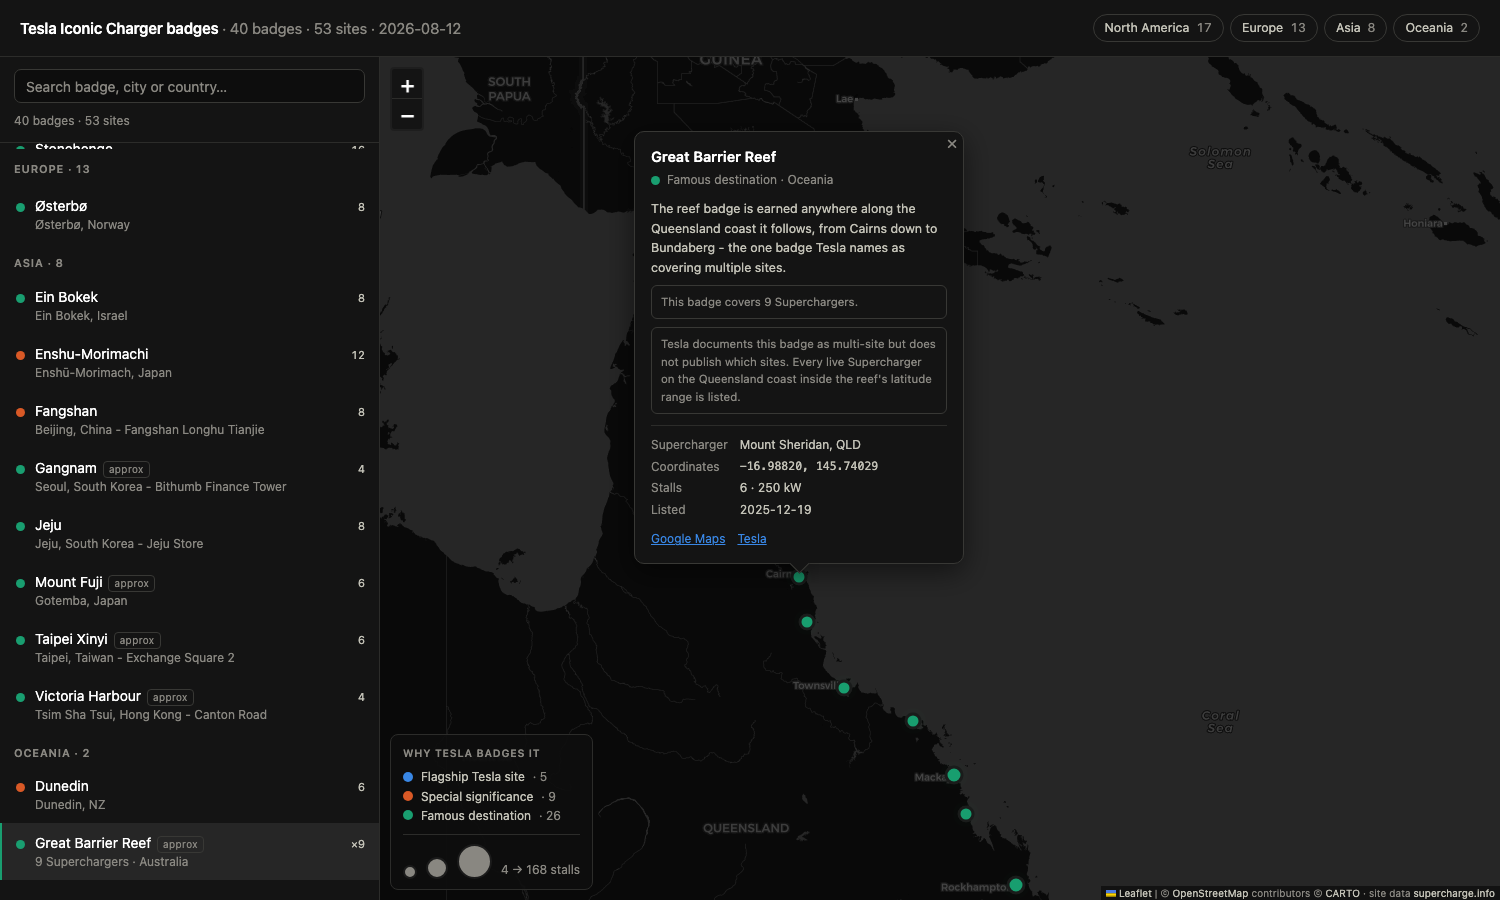
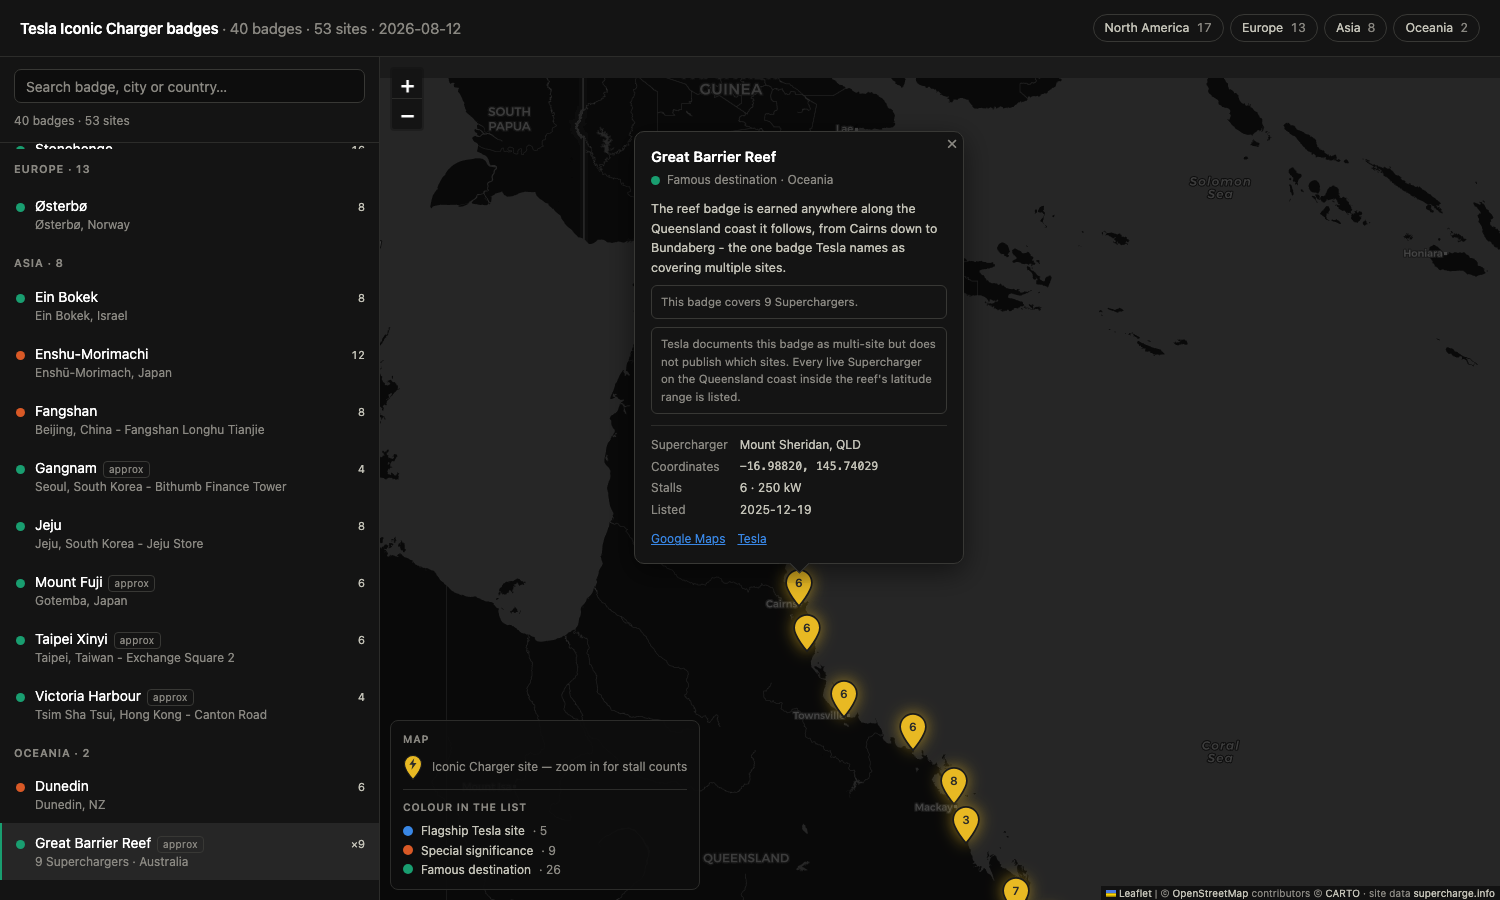
Style map markers as Tesla-gold Supercharger pins
Replace the coloured circle markers with pins modelled on Tesla's own
Supercharger marker: a gold teardrop with a dark lightning bolt, and the
stall count taking the bolt's place once zoomed in past level 6.

Colours are measured rather than chosen by eye. Gold #e8b923 sits at 9.35:1
over the basemap's water and 8.03:1 over its land; the #2c2c2a bolt at 7.59:1
against the gold. All are clear of the 3:1 floor for meaningful graphics.

Going to a single pin colour gives up hue as an encoding channel, so a badge's
reason now shows only in the sidebar dots and popups, and the legend says so.
Stall count survives the loss of size-encoding as a number on the pin, which is
more precise than an area the eye has to judge.

Switching from circleMarker to L.marker + divIcon also simplifies things:

- The invisible halo layer is gone. It existed only to give circle markers a
  >=24px hit target; the 26x34 icon box is its own target, halving the layer
  count per site.
- Marker z-order now follows latitude automatically, so pins overlap the way
  maps conventionally do.
- The pin tip marks the coordinate, where a circle's centre did.

Accessibility: Leaflet's alt option applies only to image icons, so a divIcon
would have shipped unnamed. Each pin carries role="img" and an SVG <title>
naming the badge, site and stall count, and stays keyboard focusable.

diff --git a/web/index.html b/web/index.html
@@ -18,10 +18,17 @@
     --hairline:       #2c2c2a;
     --rule:           #383835;
     /* categorical slots 1-3, validated all-pairs against --surface-1
-       (CVD ΔE 9.4, normal-vision ΔE 20.9, all >= 3:1 contrast) */
+       (CVD ΔE 9.4, normal-vision ΔE 20.9, all >= 3:1 contrast).
+       These now identify a badge's reason in the LIST only - the map is one colour. */
     --reason-flagship:     #3987e5;
     --reason-significance: #d95926;
     --reason-destination:  #199e70;
+    /* Map pin, styled after Tesla's own Supercharger marker.
+       Gold on the dark basemap: 9.35:1 over water, 8.03:1 over land.
+       Bolt on gold: 7.59:1. Swap --pin-gold to #d4af37 for antique gold. */
+    --pin-gold: #e8b923;
+    --pin-bolt: #2c2c2a;
+    --pin-edge: #1b1b1b;
   }
 
   * { box-sizing: border-box; }
@@ -129,10 +136,39 @@
   .legend .row { display: flex; align-items: center; gap: 8px; }
   .legend .dot { width: 10px; height: 10px; border-radius: 50%; flex: none; }
   .legend .sizes {
-    display: flex; align-items: flex-end; gap: 9px;
+    display: flex; align-items: center; gap: 9px;
     margin-top: 9px; padding-top: 9px; border-top: 1px solid var(--hairline);
   }
-  .legend .sz { border: 2px solid var(--surface-1); border-radius: 50%; background: var(--text-muted); flex: none; }
+  .legend hr { margin: 9px 0; border: 0; border-top: 1px solid var(--hairline); }
+
+  /* ------------------------------------------------------- Supercharger pin */
+  /* Tip of the pin sits on the coordinate, so iconAnchor is bottom-centre. */
+  .pin { background: none; border: 0; }
+  .pin svg {
+    display: block;
+    overflow: visible;
+    transform-origin: 50% 100%;
+    transition: transform 90ms ease-out;
+  }
+  .pin .body { fill: var(--pin-gold); stroke: var(--pin-edge); stroke-width: 1.5; }
+  .pin .bolt { fill: var(--pin-bolt); }
+  .pin .count {
+    fill: var(--pin-bolt);
+    font: 600 10px/1 system-ui, -apple-system, "Segoe UI", sans-serif;
+    text-anchor: middle;
+    display: none;
+  }
+  /* Stall counts only once you are close enough for them not to be noise.
+     Scoped to marker icons - the legend's sample pin lives inside the same
+     container and must keep its bolt. */
+  .show-counts .leaflet-marker-icon.pin .bolt { display: none; }
+  .show-counts .leaflet-marker-icon.pin .count { display: block; }
+
+  .leaflet-marker-icon.pin:hover svg { transform: scale(1.12); }
+  .pin.is-selected svg {
+    transform: scale(1.15);
+    filter: drop-shadow(0 0 7px #e8b92399);
+  }
 
   .leaflet-tooltip.tip {
     padding: 5px 9px; border: 1px solid var(--rule); border-radius: 6px;
@@ -212,7 +248,6 @@
     significance: "Special significance",
     destination:  "Famous destination"
   };
-  var SURFACE = "#1b1b1b";
 
   var sitesOf = {};
   DATA.sites.forEach(function (s) {
@@ -234,7 +269,6 @@
     maxZoom: 20
   }).addTo(map);
 
-  function radius(stalls) { return 5 + Math.sqrt(stalls || 4) * 0.95; }
 
   function esc(s) {
     return String(s == null ? "" : s).replace(/[&<>"']/g, function (c) {
@@ -276,59 +310,78 @@
   }
 
   var layer = L.layerGroup().addTo(map);
-  var marks = {};   // badge name -> [{dot, halo, site}]
+  var marks = {};   // badge name -> [{marker, site, badge}]
+
+  // A Tesla-style Supercharger pin: gold teardrop, dark bolt, stall count in
+  // place of the bolt once zoomed in. Inline SVG in a divIcon keeps the page
+  // asset-free, and the 26x34 icon box is its own hit target - comfortably past
+  // the 24px minimum, so no separate halo layer is needed.
+  var PIN_W = 26, PIN_H = 34;
+
+  function pinIcon(stalls, label) {
+    // role="img" + <title> rather than the marker's alt option: Leaflet only
+    // applies alt to image icons, so a divIcon would otherwise be unnamed.
+    var svg =
+      '<svg width="' + PIN_W + '" height="' + PIN_H + '" viewBox="0 0 26 34" role="img">' +
+        "<title>" + esc(label) + "</title>" +
+        '<path class="body" d="M13 33.2C13 33.2 24.2 20.6 24.2 13A11.2 11.2 0 1 0 1.8 13' +
+          'C1.8 20.6 13 33.2 13 33.2Z"/>' +
+        '<path class="bolt" d="M14.6 5.6 8.2 14.1h4.1l-1.3 6.6 6.6-8.9h-4.2z"/>' +
+        '<text class="count" x="13" y="16.6">' + (stalls || "?") + "</text>" +
+      "</svg>";
+    return L.divIcon({
+      className: "pin",
+      html: svg,
+      iconSize: [PIN_W, PIN_H],
+      iconAnchor: [PIN_W / 2, PIN_H],   // the tip marks the coordinate
+      popupAnchor: [0, -PIN_H + 4],
+      tooltipAnchor: [0, -PIN_H + 6]
+    });
+  }
 
   BADGES.forEach(function (badge) {
     marks[badge.badge] = sitesOf[badge.badge].map(function (s) {
-      var color = COLOR[badge.reason];
-      var r = radius(s.stalls);
-
-      var dot = L.circleMarker([s.latitude, s.longitude], {
-        radius: r,
-        color: SURFACE,      // 2px surface ring keeps overlapping marks separable
-        weight: 2,
-        fillColor: color,
-        fillOpacity: 0.85,
-        interactive: false
-      });
-
-      // Separate, generous hit target — never make the reader hit a 10px dot.
-      var halo = L.circleMarker([s.latitude, s.longitude], {
-        radius: Math.max(r + 6, 13),
-        stroke: false,
-        fillColor: color,
-        fillOpacity: 0.01
-      });
-
       var label = badge.site_count > 1 ? badge.badge + " — " + s.name : badge.badge;
-      halo.bindTooltip(esc(label), { className: "tip", direction: "top", offset: [0, -4] });
-      halo.bindPopup(popupHTML(badge, s), { autoPanPadding: [30, 30] });
-      halo.on("popupopen", function () { highlight(badge.badge); });
-      halo.on("mouseover", function () { dot.setStyle({ fillOpacity: 1, weight: 3 }); });
-      halo.on("mouseout", function () {
-        if (selected !== badge.badge) dot.setStyle({ fillOpacity: 0.85, weight: 2 });
+      var marker = L.marker([s.latitude, s.longitude], {
+        icon: pinIcon(s.stalls, label + ", " + (s.stalls || "?") + " stalls"),
+        riseOnHover: true,
+        keyboard: true
       });
 
-      return { dot: dot, halo: halo, site: s, badge: badge };
+      marker.bindTooltip(esc(label), { className: "tip", direction: "top" });
+      marker.bindPopup(popupHTML(badge, s), { autoPanPadding: [30, 30] });
+      marker.on("popupopen", function () { highlight(badge.badge); });
+
+      return { marker: marker, site: s, badge: badge };
     });
   });
+
+  // Counts would be noise at world zoom; the bolt carries the meaning there.
+  function syncCounts() {
+    map.getContainer().classList.toggle("show-counts", map.getZoom() >= 6);
+  }
+  map.on("zoomend", syncCounts);
 
   var legend = L.control({ position: "bottomleft" });
   legend.onAdd = function () {
     var d = L.DomUtil.create("div", "legend");
     d.innerHTML =
-      "<b>Why Tesla badges it</b>" +
+      "<b>Map</b>" +
+      '<div class="sizes" style="margin-top:0;padding-top:0;border:0">' +
+        '<span class="pin" style="width:20px;height:26px">' +
+          '<svg width="20" height="26" viewBox="0 0 26 34">' +
+            '<path class="body" d="M13 33.2C13 33.2 24.2 20.6 24.2 13A11.2 11.2 0 1 0 1.8 13' +
+              'C1.8 20.6 13 33.2 13 33.2Z"/>' +
+            '<path class="bolt" d="M14.6 5.6 8.2 14.1h4.1l-1.3 6.6 6.6-8.9h-4.2z"/>' +
+          "</svg></span>" +
+        '<span style="color:var(--text-muted)">Iconic Charger site — zoom in for stall counts</span>' +
+      "</div><hr>" +
+      "<b>Colour in the list</b>" +
       ["flagship", "significance", "destination"].map(function (k) {
         var n = BADGES.filter(function (b) { return b.reason === k; }).length;
         return '<div class="row"><span class="dot" style="background:' + COLOR[k] + '"></span>' +
           REASON_LABEL[k] + ' <span style="color:var(--text-muted)">· ' + n + "</span></div>";
-      }).join("") +
-      '<div class="sizes">' +
-      [4, 40, 168].map(function (n) {
-        var px = Math.round(radius(n) * 2);
-        return '<span class="sz" style="width:' + px + "px;height:" + px + 'px"></span>';
-      }).join("") +
-      '<span style="color:var(--text-muted)">4 → 168 stalls</span></div>';
+      }).join("");
     L.DomEvent.disableClickPropagation(d);
     return d;
   };
@@ -378,7 +431,7 @@
 
     layer.clearLayers();
     rows.forEach(function (b) {
-      marks[b.badge].forEach(function (m) { layer.addLayer(m.dot); layer.addLayer(m.halo); });
+      marks[b.badge].forEach(function (m) { layer.addLayer(m.marker); });
     });
     if (selected && !keep[selected]) selected = null;
 
@@ -426,10 +479,11 @@
   function highlight(name) {
     selected = name;
     Object.keys(marks).forEach(function (k) {
+      var on = k === name;
       marks[k].forEach(function (m) {
-        m.dot.setStyle(k === name
-          ? { fillOpacity: 1, weight: 3 }
-          : { fillOpacity: 0.85, weight: 2 });
+        var el = m.marker.getElement();   // null while the marker is filtered out
+        if (el) el.classList.toggle("is-selected", on);
+        m.marker.setZIndexOffset(on ? 1000 : 0);
       });
     });
     listEl.querySelectorAll(".item").forEach(function (el) { el.removeAttribute("aria-current"); });
@@ -458,7 +512,7 @@
         map.setView([group[0].site.latitude, group[0].site.longitude],
                     Math.max(map.getZoom(), 9), { animate: false });
       }
-      group[0].halo.openPopup();   // opened last, so auto-pan can't cancel the flight
+      group[0].marker.openPopup();   // opened last, so auto-pan can't cancel the flight
     }
 
     if (document.hidden || group.length > 1) { land(); return; }
@@ -487,6 +541,7 @@
     L.latLngBounds(DATA.sites.map(function (s) { return [s.latitude, s.longitude]; })),
     { padding: [40, 40] }
   );
+  syncCounts();
 
   // #<badge name> deep-links, so a specific badge is shareable.
   function openFromHash() {

diff --git a/README.md b/README.md
@@ -65,16 +65,21 @@ Whistler (2 each).
 
 | | |
 |---|---|
-| 🎨 **Colour** | why Tesla badges it — flagship · significance · destination |
-| ⭕ **Size** | stall count, by area |
+| 📍 **Pins** | styled after Tesla's own Supercharger marker — gold teardrop, dark bolt |
+| 🔢 **Stall count** | replaces the bolt once you zoom in, the way the Tesla app shows it |
 | 📋 **Sidebar** | lists **badges**, grouped by region, and doubles as the table view |
+| 🎨 **Colour in the list** | why Tesla badges it — flagship · significance · destination |
 | 🔗 **Multi-site** | selecting a badge frames **all** its Superchargers at once |
 | 🏷 **Filter** | the four regions |
 | 🔎 **Search** | badge name, city, country, or anything in the write-up |
 | 🪪 **Deep links** | `web/index.html#Great%20Barrier%20Reef` |
 
+Pin colours are measured, not eyeballed: gold `#e8b923` sits at **9.35:1** over the basemap's water
+and **8.03:1** over its land, and the `#2c2c2a` bolt at **7.59:1** against the gold — all well past
+the 3:1 floor for meaningful graphics. Swap `--pin-gold` to `#d4af37` for an antique gold.
+
 <div align="center">
-<img src="docs/screenshot-detail.png" alt="The Great Barrier Reef badge, covering nine Queensland Superchargers" width="88%">
+<img src="docs/screenshot-detail.png" alt="The Great Barrier Reef badge lighting all nine of its Queensland Superchargers" width="88%">
 </div>
 
 ---
